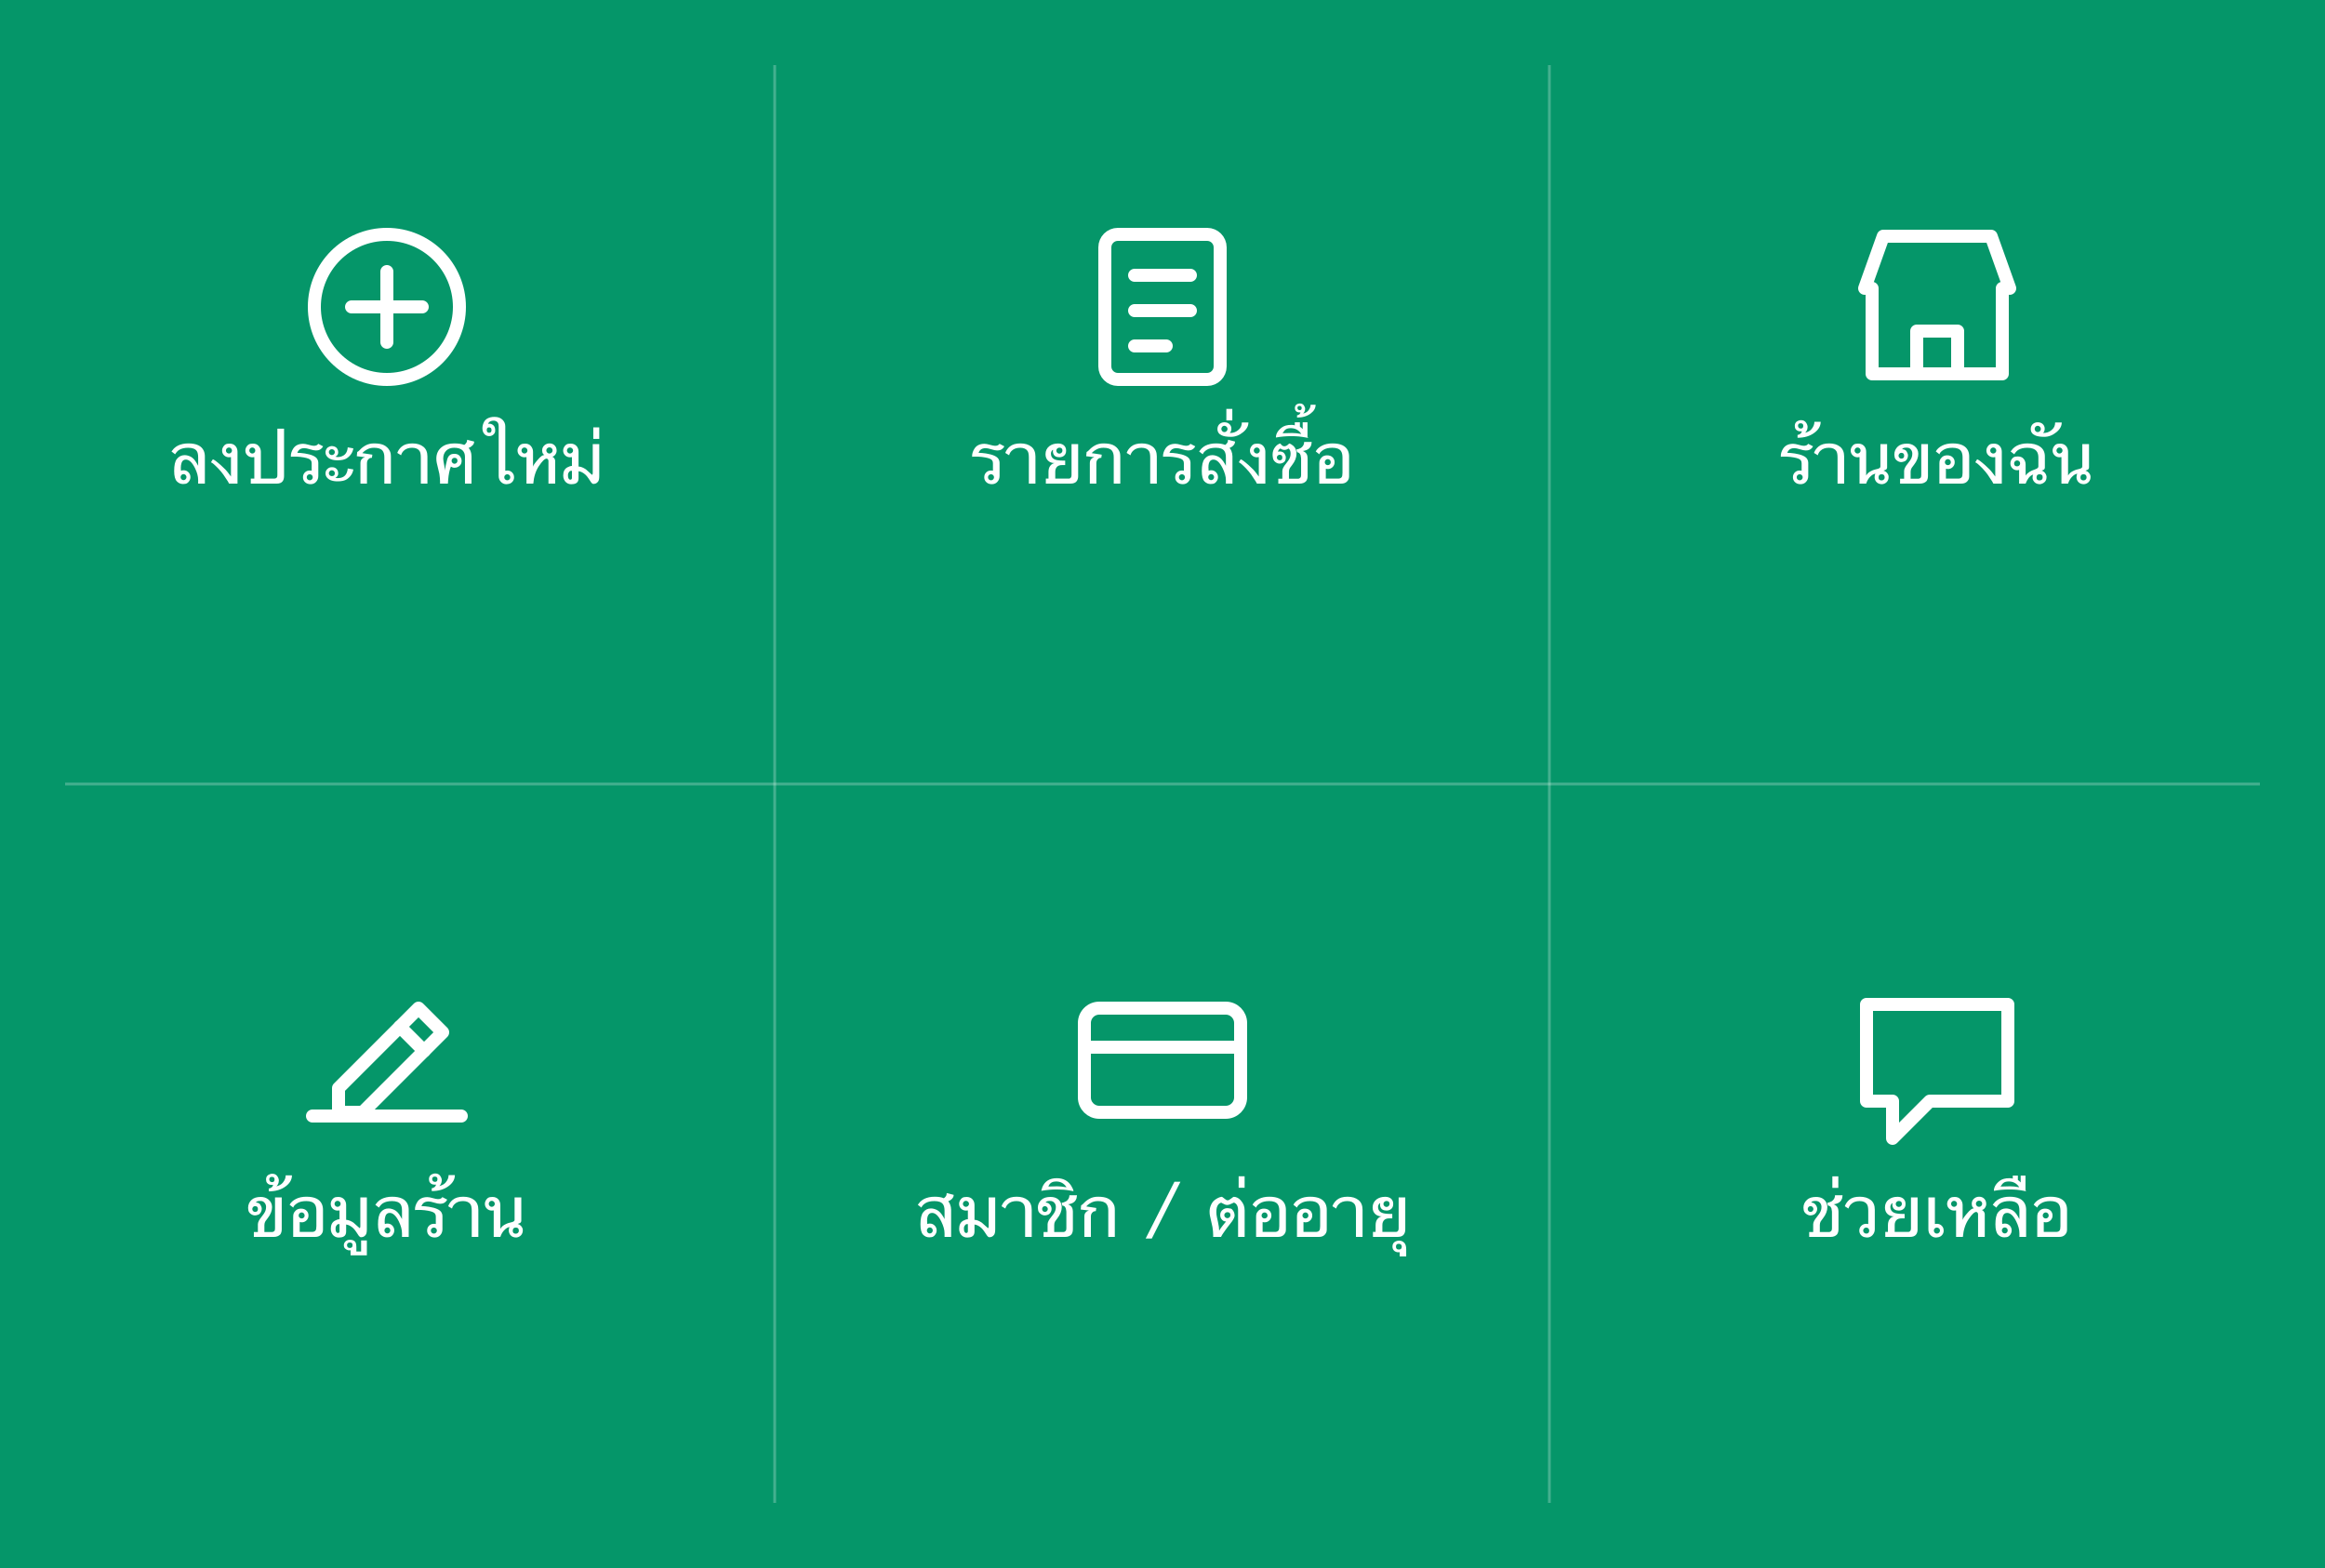
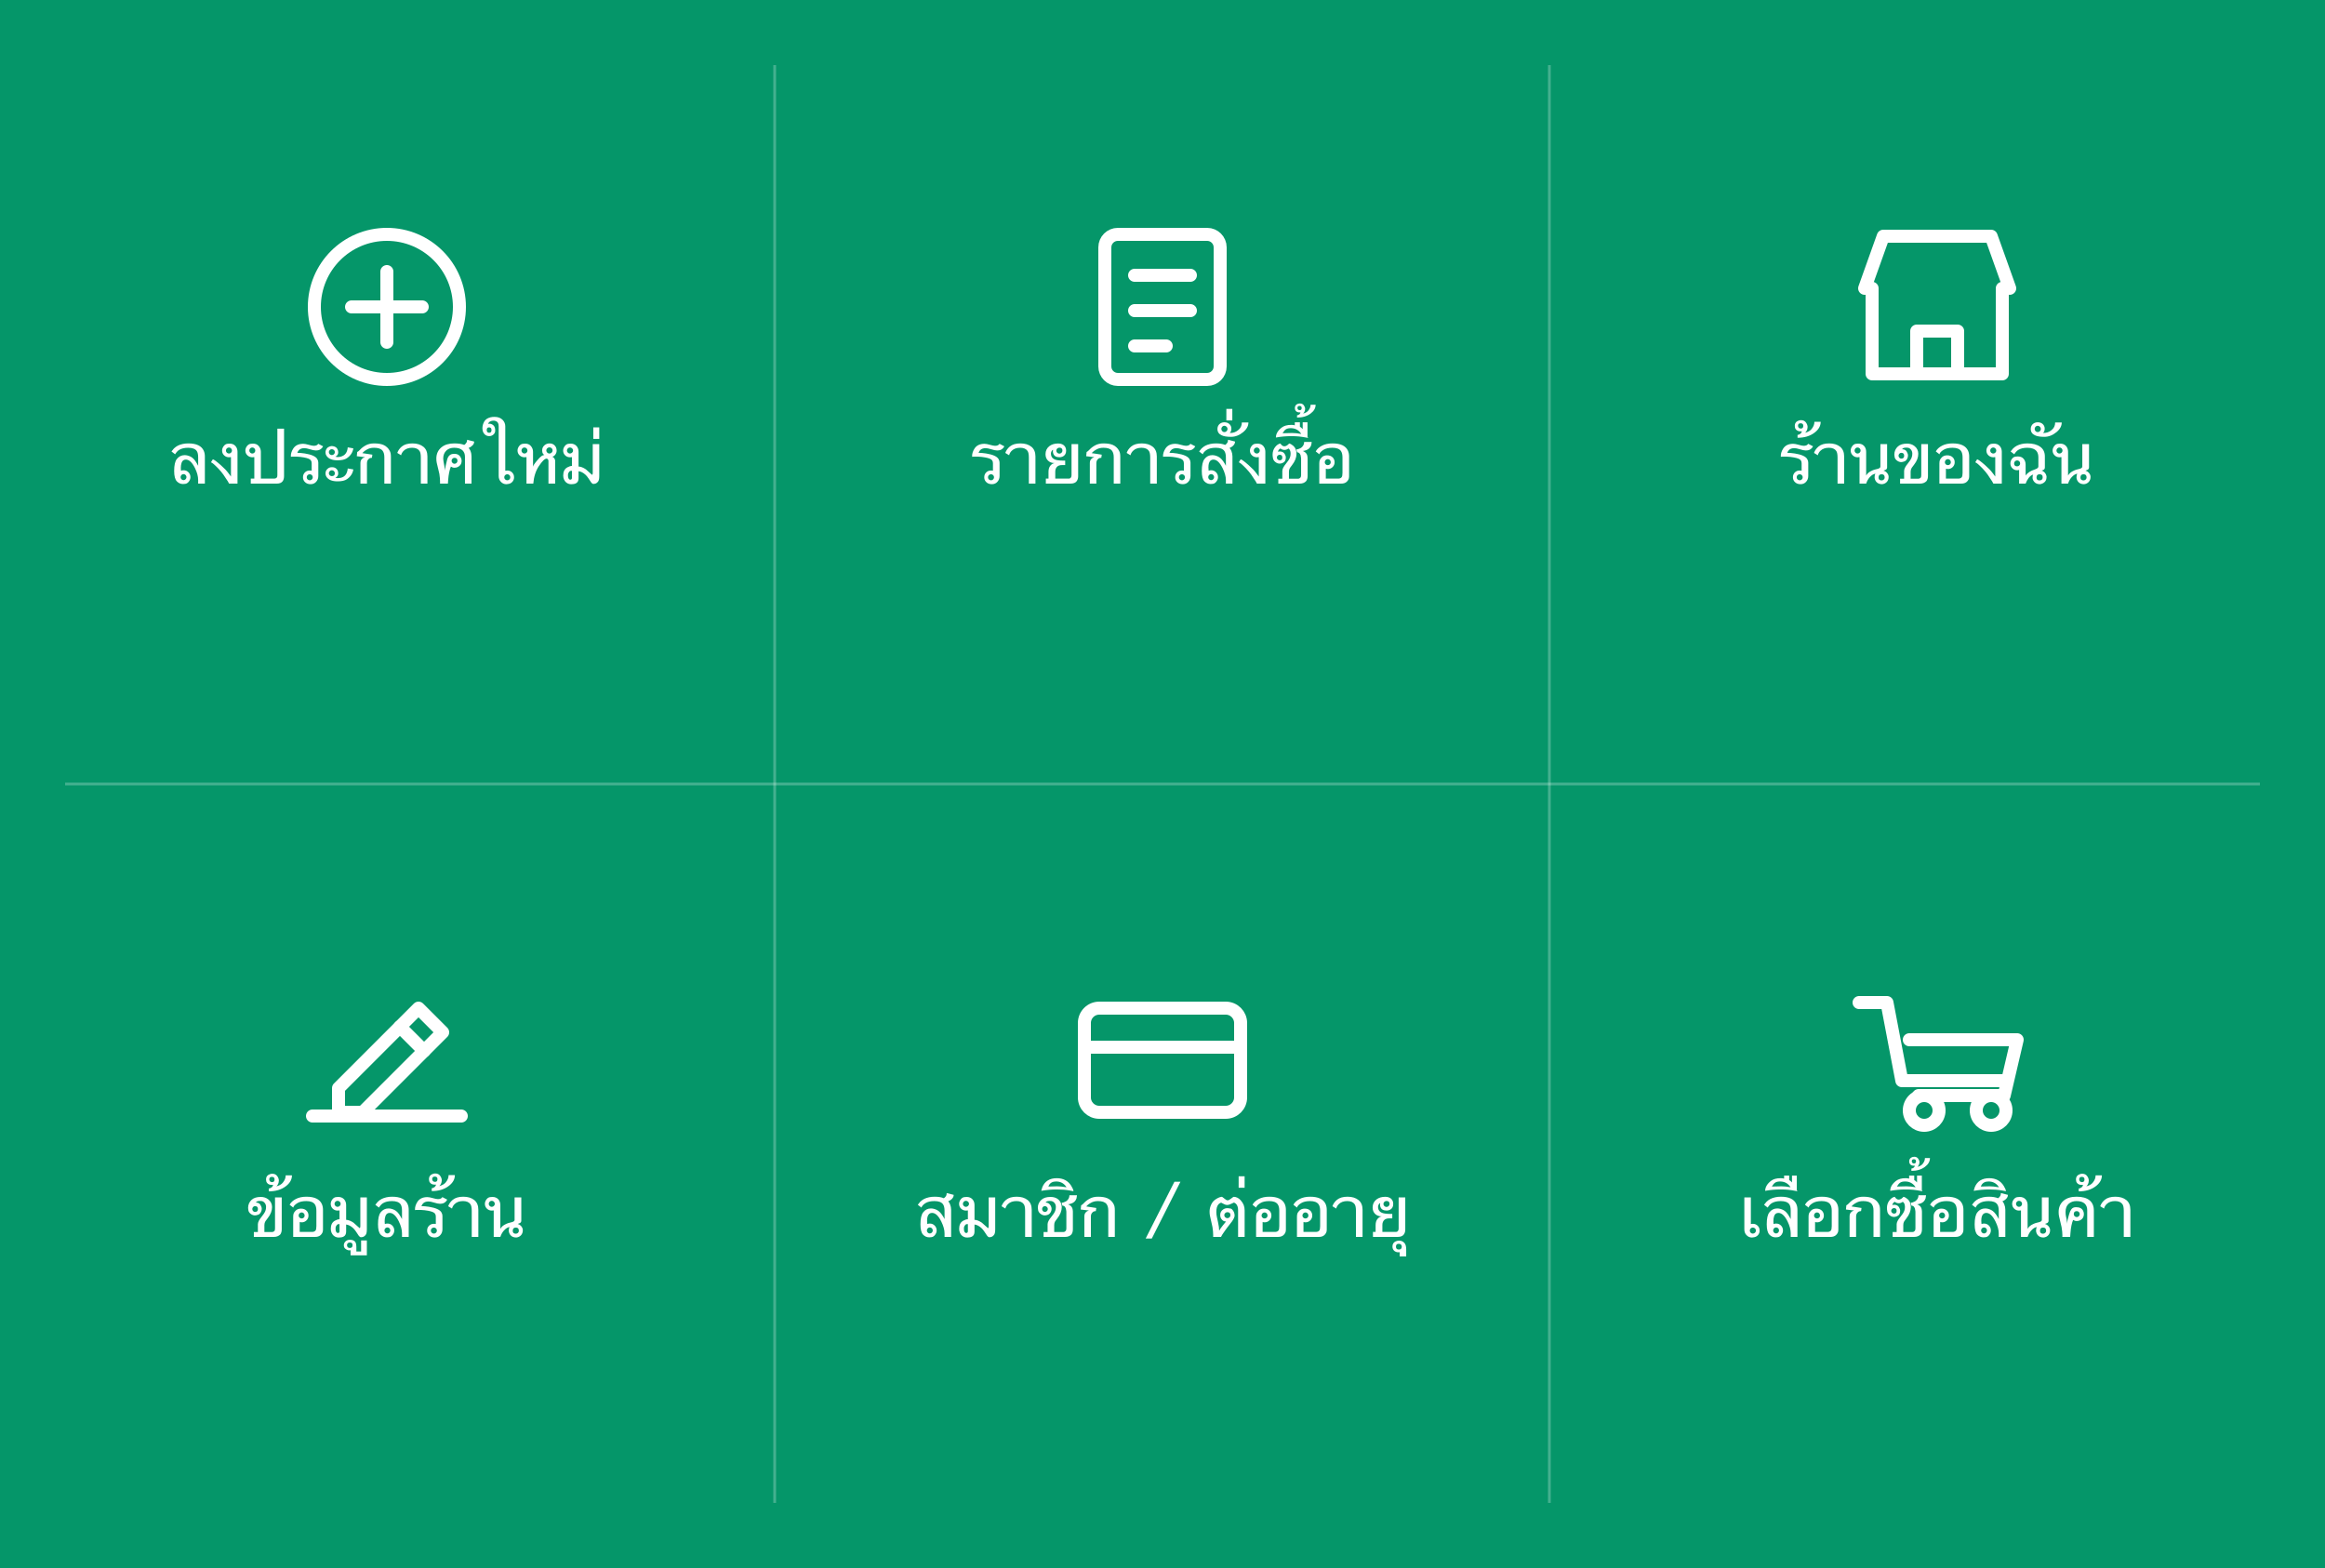
feat: ปุ่ม 'เลือกซื้อสินค้า' ในเมนูผู้ขาย แทน 'ช่วยเหลือ'
Rich Menu มีได้อันเดียวต่อบัญชี LINE — พอผูกเมนูผู้ขายแล้ว เมนูผู้ซื้อหายไป
ร้านที่อยากซื้อของร้านอื่นเลยไม่มีทางเข้าจากในแชท

- แก้ทั้ง SVG (ไอคอนตะกร้า + ป้าย) และสร้าง PNG ใหม่ ไม่ใช่แค่เปลี่ยนปลายทาง
  ไม่งั้นปุ่มจะเขียน 'ช่วยเหลือ' แต่กดแล้วไปหน้าซื้อของ
- ปุ่มนี้ชี้ LIFF ของผู้ซื้อ (ZrqtIwFc) ไม่ใช่ของผู้ขาย จะได้ได้ cookie ผู้ซื้อ
- หน้าช่วยเหลือยังเข้าได้จาก footer ในเว็บ

Changed region(s): [[0.7488, 0.6168, 0.9048, 0.8019]]

diff --git a/brand/README.md b/brand/README.md
@@ -38,7 +38,7 @@ import("sharp").then(async ({default:sharp})=>{
 | ไฟล์ | ขนาด | ใคร |
 |---|---|---|
 | `richmenu-buyer.png` | 2500×843 (3 ปุ่ม) | เมนูเริ่มต้นของทุกคนที่เพิ่มเพื่อน OA |
-| `richmenu-seller.png` | 2500×1686 (6 ปุ่ม) | ผูกรายคนอัตโนมัติตอนล็อกอินเป็นผู้ขาย |
+| `richmenu-seller.png` | 2500×1686 (6 ปุ่ม) | ผูกรายคนอัตโนมัติตอนล็อกอินเป็นผู้ขาย · ปุ่มขวาล่างเป็น "เลือกซื้อสินค้า" (ชี้ LIFF ผู้ซื้อ) เพราะ 1 บัญชีมี Rich Menu ได้อันเดียว |
 
 ติดตั้ง (รันซ้ำได้ — ลบเมนูเก่าทิ้งก่อนเสมอ):
 